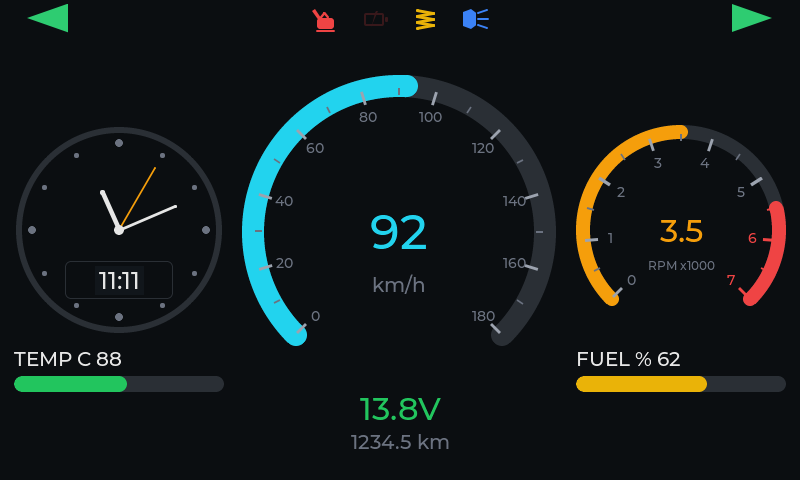
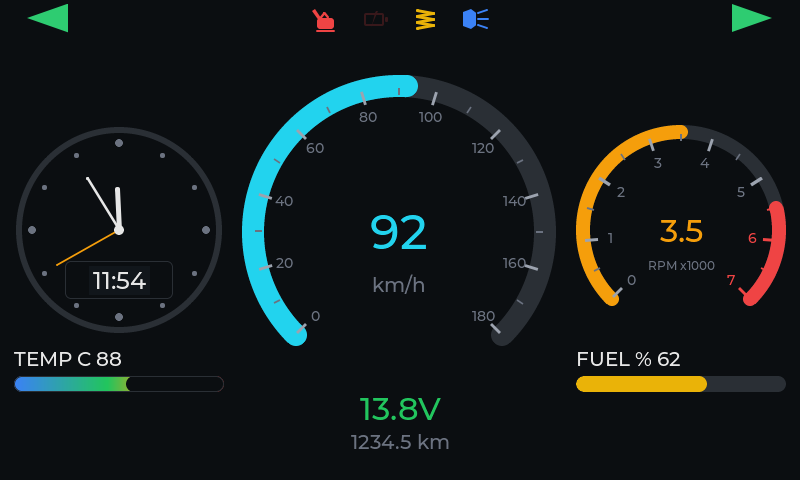
feat(ui): сделать шкалу температуры градиентной

diff --git a/arduino/t3-dash/ui_lvgl.cpp b/arduino/t3-dash/ui_lvgl.cpp
@@ -45,7 +45,9 @@ constexpr int kMaxTicks = 128;
 lv_point_t g_tickPoints[kMaxTicks][2];
 int g_tickPointCount = 0;
 
-lv_obj_t* g_tempBar = nullptr;
+lv_obj_t* g_tempGradient = nullptr;
+lv_obj_t* g_tempCover = nullptr;
+lv_obj_t* g_tempOutline = nullptr;
 lv_obj_t* g_tempLabel = nullptr;
 lv_obj_t* g_fuelBar = nullptr;
 lv_obj_t* g_fuelLabel = nullptr;
@@ -484,6 +486,48 @@ lv_obj_t* createBar(lv_obj_t* parent, int x, int y, int width, int32_t lo, int32
   return bar;
 }
 
+lv_obj_t* createGradientSegment(lv_obj_t* parent, int x, int width, uint32_t from,
+                                 uint32_t to) {
+  lv_obj_t* segment = lv_obj_create(parent);
+  lv_obj_remove_style_all(segment);
+  lv_obj_set_pos(segment, x, 0);
+  lv_obj_set_size(segment, width, 16);
+  lv_obj_set_style_bg_color(segment, lv_color_hex(from), 0);
+  lv_obj_set_style_bg_grad_color(segment, lv_color_hex(to), 0);
+  lv_obj_set_style_bg_grad_dir(segment, LV_GRAD_DIR_HOR, 0);
+  lv_obj_set_style_bg_opa(segment, LV_OPA_COVER, 0);
+  lv_obj_clear_flag(segment, LV_OBJ_FLAG_SCROLLABLE);
+  lv_obj_clear_flag(segment, LV_OBJ_FLAG_CLICKABLE);
+  return segment;
+}
+
+void updateTempBar(const Values& v) {
+  char text[32];
+  if (v.coolantValid) {
+    snprintf(text, sizeof(text), "TEMP C %d", (int)(v.coolantC + 0.5f));
+  } else {
+    snprintf(text, sizeof(text), "TEMP C --");
+  }
+  lv_label_set_text(g_tempLabel, text);
+  lv_obj_set_style_text_color(g_tempLabel, lv_color_hex(v.tempWarning ? COL_RED : COL_TEXT),
+                              0);
+
+  float frac = 0.0f;
+  if (v.coolantValid) {
+    frac = (v.coolantC - 40.0f) / 90.0f;
+    if (frac < 0.0f) {
+      frac = 0.0f;
+    }
+    if (frac > 1.0f) {
+      frac = 1.0f;
+    }
+  }
+
+  const int filled = (int)(210.0f * frac);
+  lv_obj_set_pos(g_tempCover, filled, 0);
+  lv_obj_set_size(g_tempCover, 210 - filled, 16);
+}
+
 void updateBar(lv_obj_t* bar, lv_obj_t* label, const char* name, float value,
                bool valid, bool warn, uint32_t color) {
   char text[32];
@@ -523,8 +567,7 @@ void applyValues(const Values& v) {
   updateGauge(g_speed, v.speedKmh, v.speedValid, COL_CYAN);
   updateGauge(g_rpm, v.rpm, v.rpmValid, COL_ORANGE);
 
-  updateBar(g_tempBar, g_tempLabel, "TEMP C", v.coolantC, v.coolantValid, v.tempWarning,
-            COL_GREEN);
+  updateTempBar(v);
   updateBar(g_fuelBar, g_fuelLabel, "FUEL %", v.fuelPct, v.fuelValid, v.fuelWarning,
             COL_YELLOW);
 
@@ -647,7 +690,44 @@ void init() {
 
   g_tempLabel = makeLabel(screen, "TEMP --", &lv_font_montserrat_20, COL_TEXT);
   lv_obj_set_pos(g_tempLabel, 14, 348);
-  g_tempBar = createBar(screen, 14, 376, 210, 40, 130, COL_GREEN);
+
+  g_tempGradient = lv_obj_create(screen);
+  lv_obj_remove_style_all(g_tempGradient);
+  lv_obj_set_pos(g_tempGradient, 14, 376);
+  lv_obj_set_size(g_tempGradient, 210, 16);
+  lv_obj_set_style_radius(g_tempGradient, 8, 0);
+  lv_obj_set_style_clip_corner(g_tempGradient, true, 0);
+  lv_obj_set_style_bg_opa(g_tempGradient, LV_OPA_TRANSP, 0);
+  lv_obj_clear_flag(g_tempGradient, LV_OBJ_FLAG_SCROLLABLE);
+  lv_obj_clear_flag(g_tempGradient, LV_OBJ_FLAG_CLICKABLE);
+
+  // 40..80: blue -> green, 80..100: green -> orange,
+  // 100..115: orange -> red, 115..130: solid red.
+  createGradientSegment(g_tempGradient, 0, 93, COL_BLUE, COL_GREEN);
+  createGradientSegment(g_tempGradient, 93, 47, COL_GREEN, COL_ORANGE);
+  createGradientSegment(g_tempGradient, 140, 35, COL_ORANGE, COL_RED);
+  createGradientSegment(g_tempGradient, 175, 35, COL_RED, COL_RED);
+
+  g_tempCover = lv_obj_create(g_tempGradient);
+  lv_obj_remove_style_all(g_tempCover);
+  lv_obj_set_pos(g_tempCover, 0, 0);
+  lv_obj_set_size(g_tempCover, 210, 16);
+  lv_obj_set_style_radius(g_tempCover, 8, 0);
+  lv_obj_set_style_bg_color(g_tempCover, lv_color_hex(COL_BG), 0);
+  lv_obj_set_style_bg_opa(g_tempCover, LV_OPA_COVER, 0);
+  lv_obj_clear_flag(g_tempCover, LV_OBJ_FLAG_SCROLLABLE);
+  lv_obj_clear_flag(g_tempCover, LV_OBJ_FLAG_CLICKABLE);
+
+  g_tempOutline = lv_obj_create(screen);
+  lv_obj_remove_style_all(g_tempOutline);
+  lv_obj_set_pos(g_tempOutline, 14, 376);
+  lv_obj_set_size(g_tempOutline, 210, 16);
+  lv_obj_set_style_radius(g_tempOutline, 8, 0);
+  lv_obj_set_style_bg_opa(g_tempOutline, LV_OPA_TRANSP, 0);
+  lv_obj_set_style_border_width(g_tempOutline, 1, 0);
+  lv_obj_set_style_border_color(g_tempOutline, lv_color_hex(COL_TRACK), 0);
+  lv_obj_clear_flag(g_tempOutline, LV_OBJ_FLAG_SCROLLABLE);
+  lv_obj_clear_flag(g_tempOutline, LV_OBJ_FLAG_CLICKABLE);
 
   g_fuelLabel = makeLabel(screen, "FUEL --", &lv_font_montserrat_20, COL_TEXT);
   lv_obj_set_pos(g_fuelLabel, 576, 348);

diff --git a/src/ui/lvgl/ui_lvgl.cpp b/src/ui/lvgl/ui_lvgl.cpp
@@ -45,7 +45,9 @@ constexpr int kMaxTicks = 128;
 lv_point_t g_tickPoints[kMaxTicks][2];
 int g_tickPointCount = 0;
 
-lv_obj_t* g_tempBar = nullptr;
+lv_obj_t* g_tempGradient = nullptr;
+lv_obj_t* g_tempCover = nullptr;
+lv_obj_t* g_tempOutline = nullptr;
 lv_obj_t* g_tempLabel = nullptr;
 lv_obj_t* g_fuelBar = nullptr;
 lv_obj_t* g_fuelLabel = nullptr;
@@ -484,6 +486,48 @@ lv_obj_t* createBar(lv_obj_t* parent, int x, int y, int width, int32_t lo, int32
   return bar;
 }
 
+lv_obj_t* createGradientSegment(lv_obj_t* parent, int x, int width, uint32_t from,
+                                 uint32_t to) {
+  lv_obj_t* segment = lv_obj_create(parent);
+  lv_obj_remove_style_all(segment);
+  lv_obj_set_pos(segment, x, 0);
+  lv_obj_set_size(segment, width, 16);
+  lv_obj_set_style_bg_color(segment, lv_color_hex(from), 0);
+  lv_obj_set_style_bg_grad_color(segment, lv_color_hex(to), 0);
+  lv_obj_set_style_bg_grad_dir(segment, LV_GRAD_DIR_HOR, 0);
+  lv_obj_set_style_bg_opa(segment, LV_OPA_COVER, 0);
+  lv_obj_clear_flag(segment, LV_OBJ_FLAG_SCROLLABLE);
+  lv_obj_clear_flag(segment, LV_OBJ_FLAG_CLICKABLE);
+  return segment;
+}
+
+void updateTempBar(const Values& v) {
+  char text[32];
+  if (v.coolantValid) {
+    snprintf(text, sizeof(text), "TEMP C %d", (int)(v.coolantC + 0.5f));
+  } else {
+    snprintf(text, sizeof(text), "TEMP C --");
+  }
+  lv_label_set_text(g_tempLabel, text);
+  lv_obj_set_style_text_color(g_tempLabel, lv_color_hex(v.tempWarning ? COL_RED : COL_TEXT),
+                              0);
+
+  float frac = 0.0f;
+  if (v.coolantValid) {
+    frac = (v.coolantC - 40.0f) / 90.0f;
+    if (frac < 0.0f) {
+      frac = 0.0f;
+    }
+    if (frac > 1.0f) {
+      frac = 1.0f;
+    }
+  }
+
+  const int filled = (int)(210.0f * frac);
+  lv_obj_set_pos(g_tempCover, filled, 0);
+  lv_obj_set_size(g_tempCover, 210 - filled, 16);
+}
+
 void updateBar(lv_obj_t* bar, lv_obj_t* label, const char* name, float value,
                bool valid, bool warn, uint32_t color) {
   char text[32];
@@ -523,8 +567,7 @@ void applyValues(const Values& v) {
   updateGauge(g_speed, v.speedKmh, v.speedValid, COL_CYAN);
   updateGauge(g_rpm, v.rpm, v.rpmValid, COL_ORANGE);
 
-  updateBar(g_tempBar, g_tempLabel, "TEMP C", v.coolantC, v.coolantValid, v.tempWarning,
-            COL_GREEN);
+  updateTempBar(v);
   updateBar(g_fuelBar, g_fuelLabel, "FUEL %", v.fuelPct, v.fuelValid, v.fuelWarning,
             COL_YELLOW);
 
@@ -647,7 +690,44 @@ void init() {
 
   g_tempLabel = makeLabel(screen, "TEMP --", &lv_font_montserrat_20, COL_TEXT);
   lv_obj_set_pos(g_tempLabel, 14, 348);
-  g_tempBar = createBar(screen, 14, 376, 210, 40, 130, COL_GREEN);
+
+  g_tempGradient = lv_obj_create(screen);
+  lv_obj_remove_style_all(g_tempGradient);
+  lv_obj_set_pos(g_tempGradient, 14, 376);
+  lv_obj_set_size(g_tempGradient, 210, 16);
+  lv_obj_set_style_radius(g_tempGradient, 8, 0);
+  lv_obj_set_style_clip_corner(g_tempGradient, true, 0);
+  lv_obj_set_style_bg_opa(g_tempGradient, LV_OPA_TRANSP, 0);
+  lv_obj_clear_flag(g_tempGradient, LV_OBJ_FLAG_SCROLLABLE);
+  lv_obj_clear_flag(g_tempGradient, LV_OBJ_FLAG_CLICKABLE);
+
+  // 40..80: blue -> green, 80..100: green -> orange,
+  // 100..115: orange -> red, 115..130: solid red.
+  createGradientSegment(g_tempGradient, 0, 93, COL_BLUE, COL_GREEN);
+  createGradientSegment(g_tempGradient, 93, 47, COL_GREEN, COL_ORANGE);
+  createGradientSegment(g_tempGradient, 140, 35, COL_ORANGE, COL_RED);
+  createGradientSegment(g_tempGradient, 175, 35, COL_RED, COL_RED);
+
+  g_tempCover = lv_obj_create(g_tempGradient);
+  lv_obj_remove_style_all(g_tempCover);
+  lv_obj_set_pos(g_tempCover, 0, 0);
+  lv_obj_set_size(g_tempCover, 210, 16);
+  lv_obj_set_style_radius(g_tempCover, 8, 0);
+  lv_obj_set_style_bg_color(g_tempCover, lv_color_hex(COL_BG), 0);
+  lv_obj_set_style_bg_opa(g_tempCover, LV_OPA_COVER, 0);
+  lv_obj_clear_flag(g_tempCover, LV_OBJ_FLAG_SCROLLABLE);
+  lv_obj_clear_flag(g_tempCover, LV_OBJ_FLAG_CLICKABLE);
+
+  g_tempOutline = lv_obj_create(screen);
+  lv_obj_remove_style_all(g_tempOutline);
+  lv_obj_set_pos(g_tempOutline, 14, 376);
+  lv_obj_set_size(g_tempOutline, 210, 16);
+  lv_obj_set_style_radius(g_tempOutline, 8, 0);
+  lv_obj_set_style_bg_opa(g_tempOutline, LV_OPA_TRANSP, 0);
+  lv_obj_set_style_border_width(g_tempOutline, 1, 0);
+  lv_obj_set_style_border_color(g_tempOutline, lv_color_hex(COL_TRACK), 0);
+  lv_obj_clear_flag(g_tempOutline, LV_OBJ_FLAG_SCROLLABLE);
+  lv_obj_clear_flag(g_tempOutline, LV_OBJ_FLAG_CLICKABLE);
 
   g_fuelLabel = makeLabel(screen, "FUEL --", &lv_font_montserrat_20, COL_TEXT);
   lv_obj_set_pos(g_fuelLabel, 576, 348);

diff --git a/sim/main.cpp b/sim/main.cpp
@@ -84,6 +84,7 @@ int main(int argc, char** argv) {
   const bool viaSdl = argc >= 3 && SDL_strcmp(argv[2], "sdl") == 0;
   const bool bootShot = argc >= 3 && SDL_strcmp(argv[2], "boot") == 0;
   const bool sweepShot = argc >= 3 && SDL_strcmp(argv[2], "sweep") == 0;
+  const bool hotShot = argc >= 3 && SDL_strcmp(argv[2], "hot") == 0;
 
   if (SDL_Init(SDL_INIT_VIDEO) != 0) {
     fprintf(stderr, "SDL_Init failed: %s\n", SDL_GetError());
@@ -131,12 +132,16 @@ int main(int argc, char** argv) {
   lv_disp_drv_register(&gDispDrv);
 
   ui::init();
-  if (screenshot && !bootShot && !sweepShot) {
+  if (screenshot && !bootShot && !sweepShot && !hotShot) {
     ui::skipBoot();
   }
   if (sweepShot) {
     ui::update(demo::make(0.0f));
     lv_tick_inc(2300);
+  }
+  if (hotShot) {
+    ui::update(demo::make(0.0f));
+    lv_tick_inc(2750);
   }
 
   float t = 0.0f;
